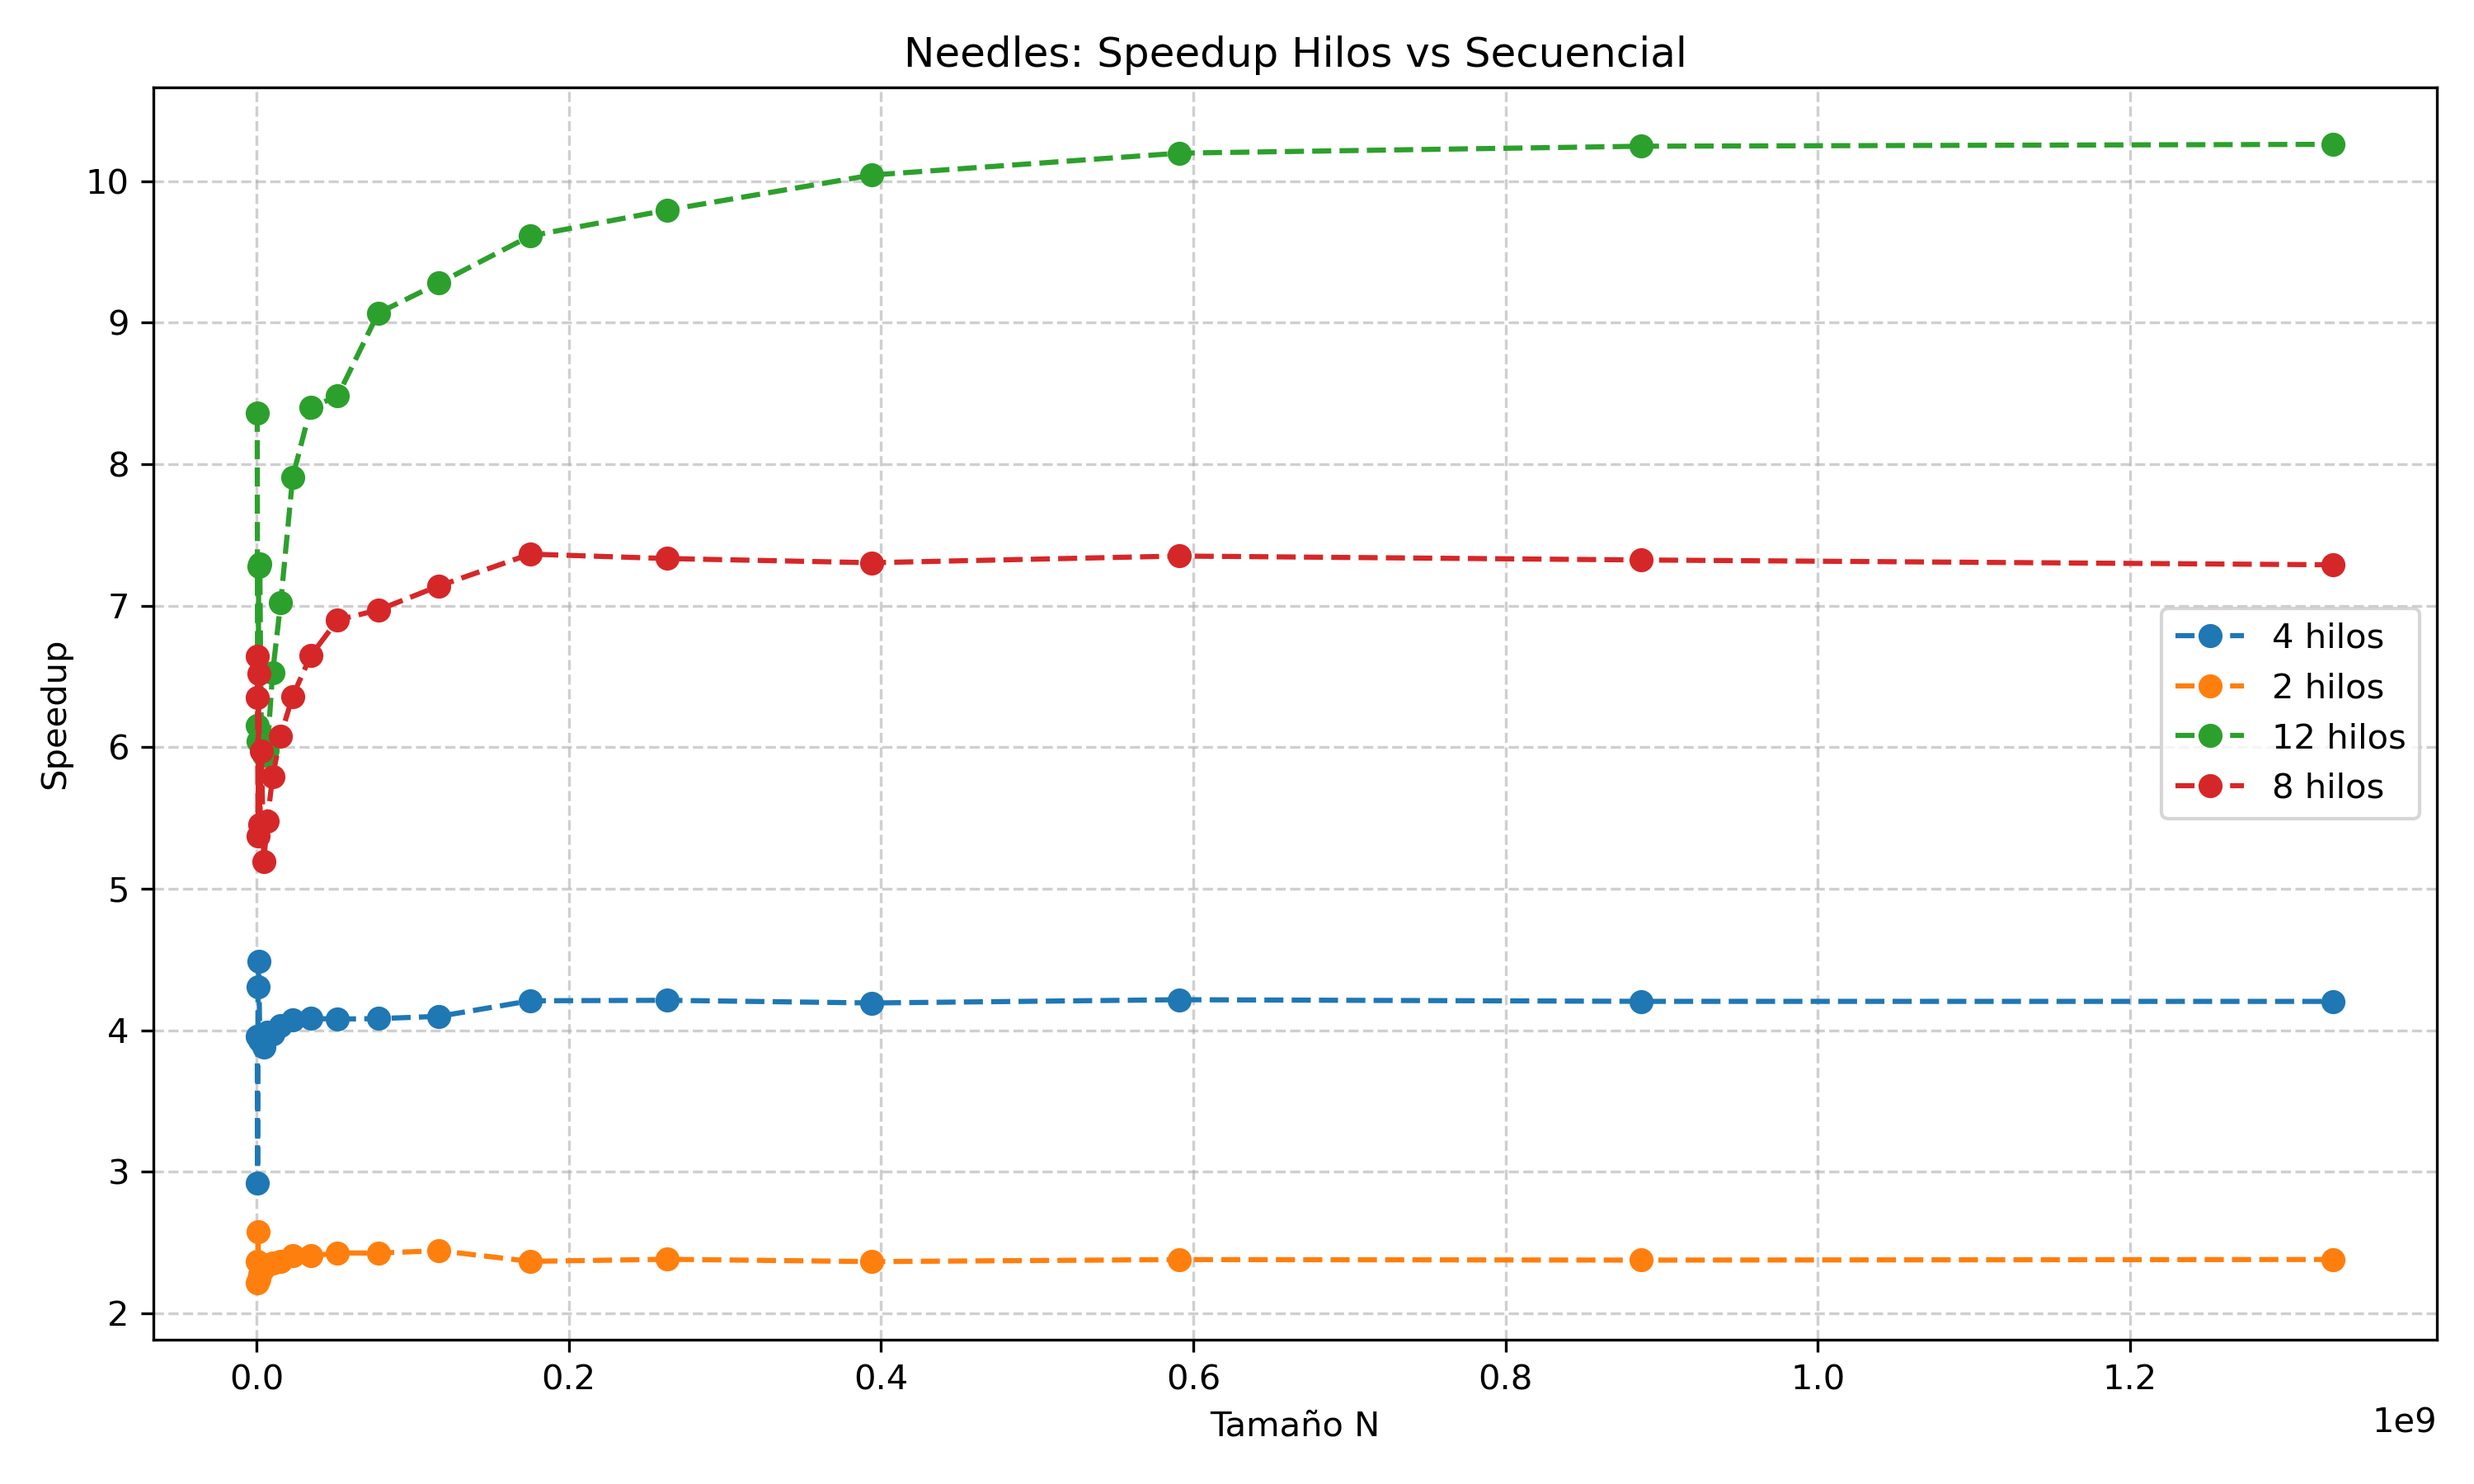
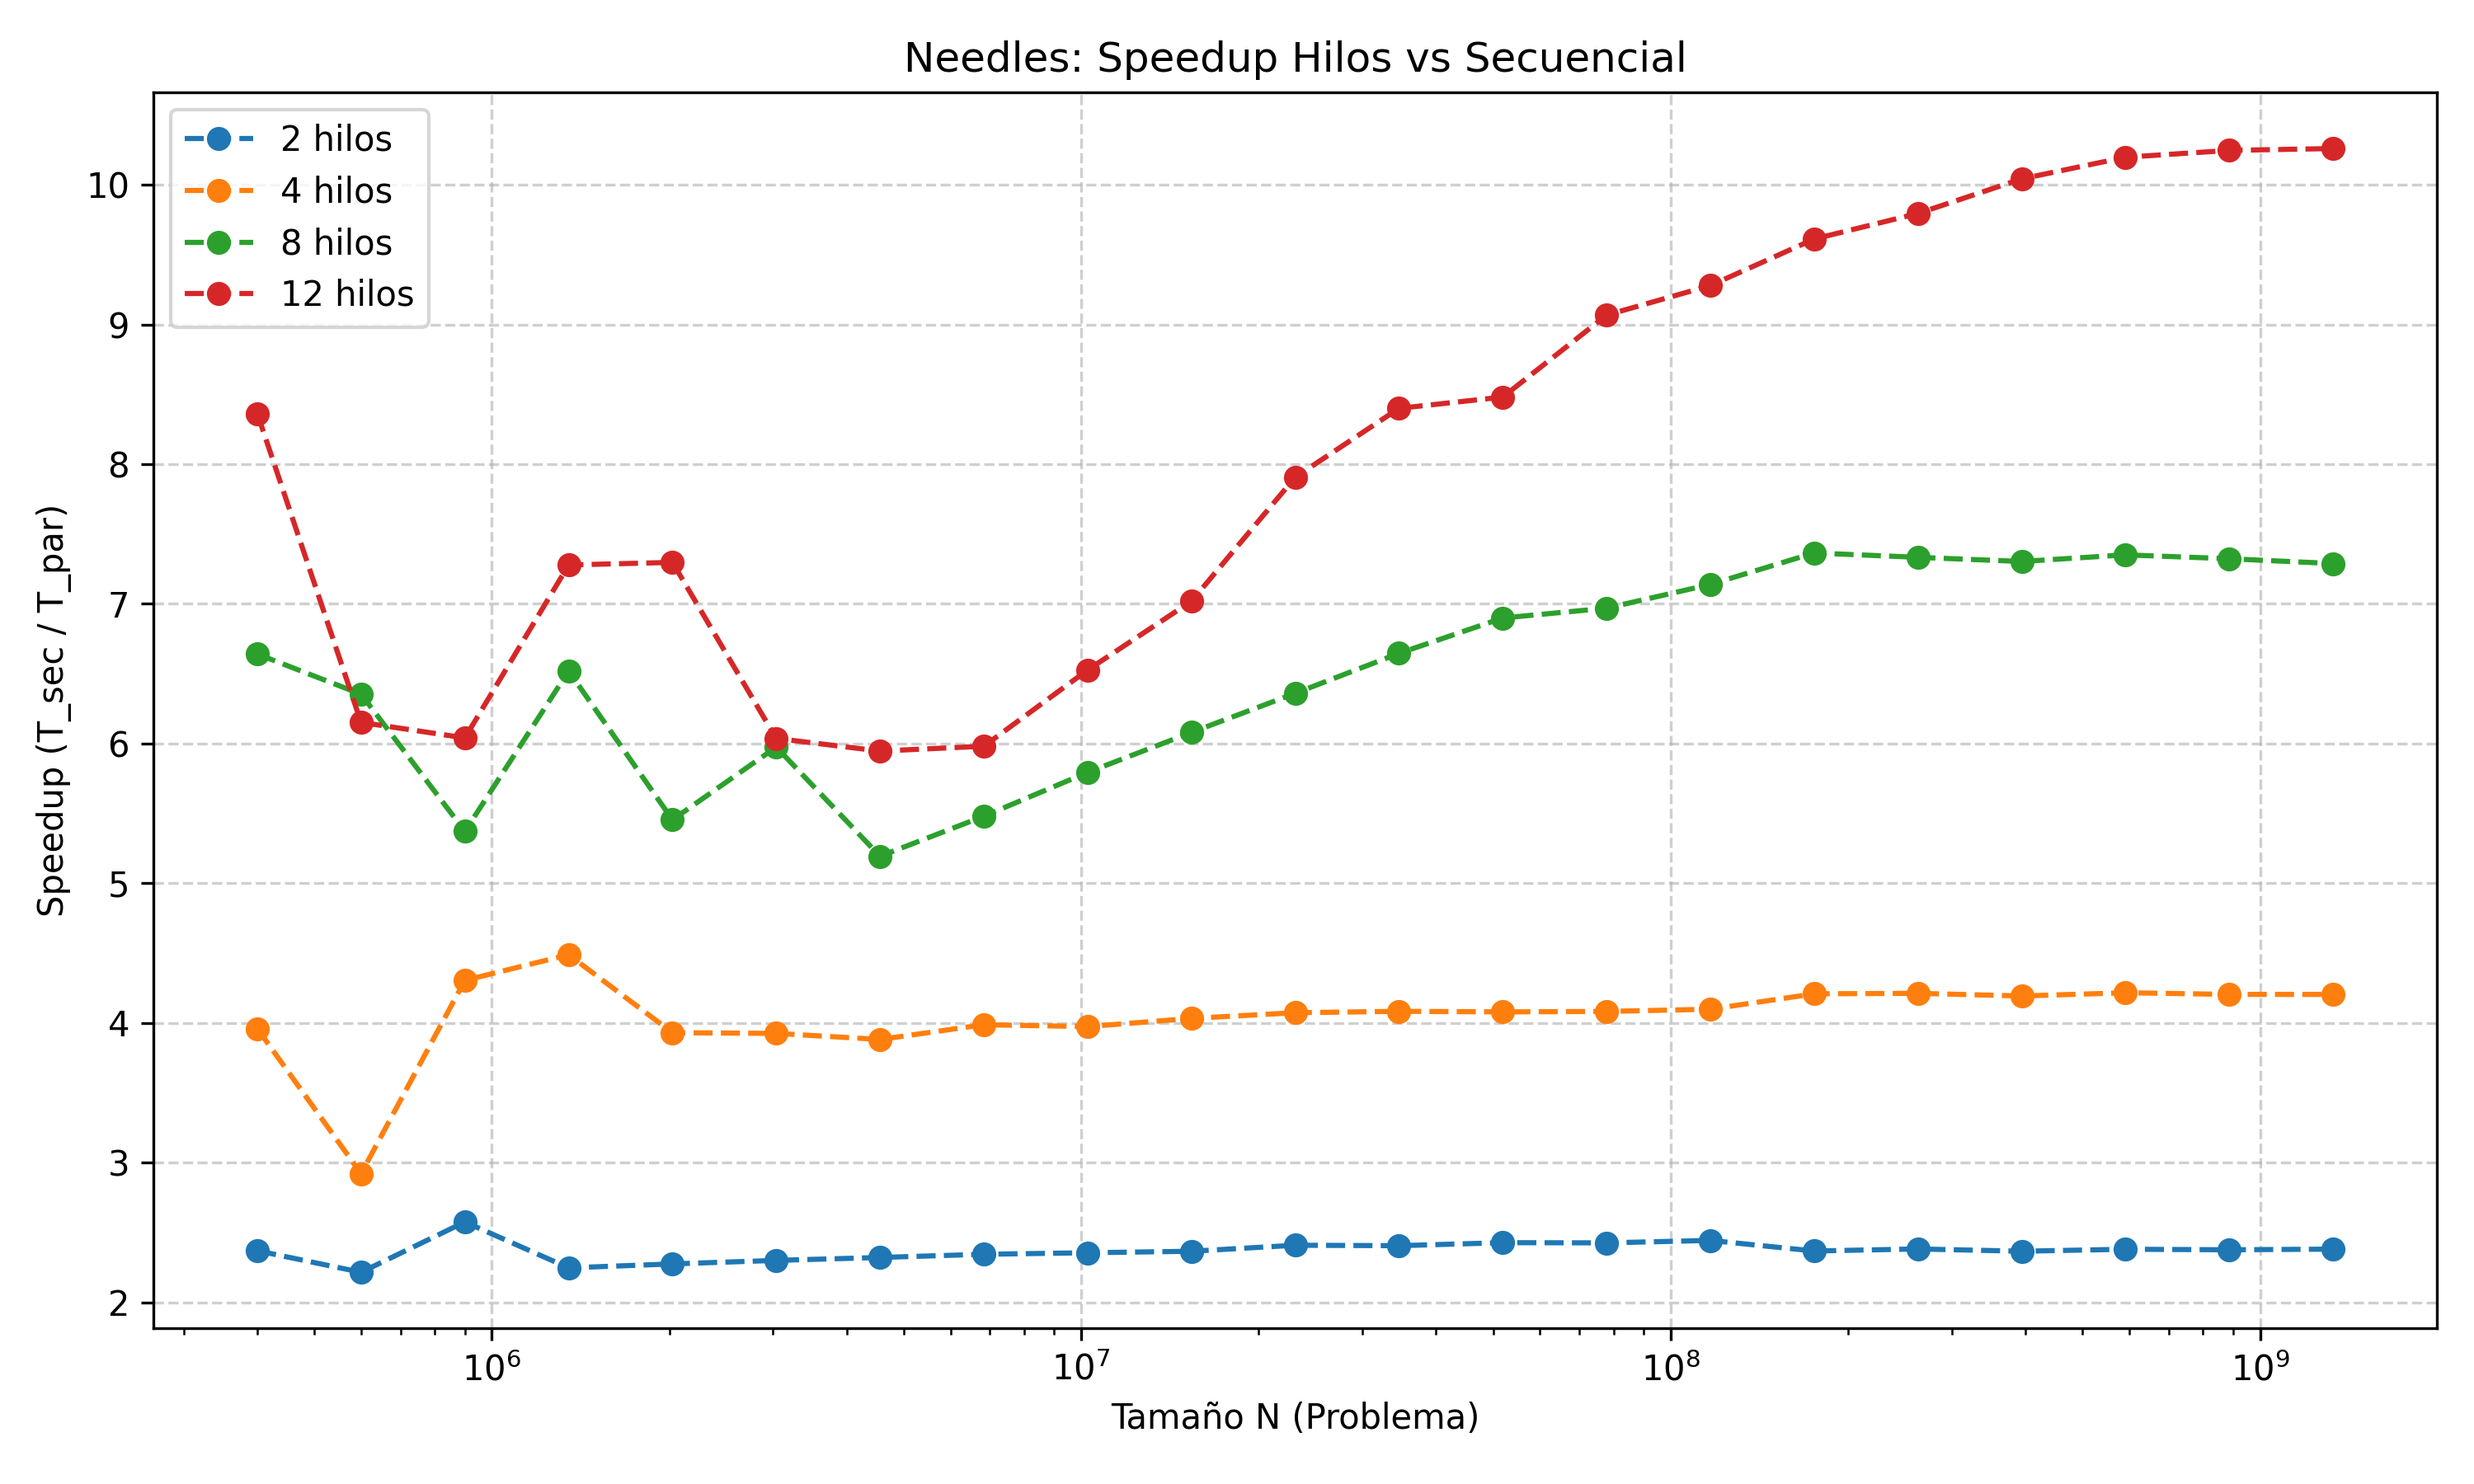
script(speedup): Graficas del speedup generadas

diff --git a/reto2/scripts/speedup.py b/reto2/scripts/speedup.py
@@ -7,50 +7,106 @@ OUTPUT_DIR = os.path.join(BASE_DIR, "graficas_speedup")
 os.makedirs(OUTPUT_DIR, exist_ok=True)
 
 def cargar_tablas(path, modo):
-    """Carga tablas desde una carpeta dada (hilos, procesos, secuencial)."""
+    """Carga tablas desde una carpeta dada (hilos, procesos, secuencial, openmp)."""
     data = {}
     if not os.path.isdir(path):
+        print(f"Info: No se encontró la carpeta {path}")
         return data
 
+    # OpenMP tiene una estructura de carpetas diferente (ej: path/8_threads/tabla.csv)
+    if modo == "openmp":
+        for sub_dir_name in os.listdir(path):
+            sub_dir_path = os.path.join(path, sub_dir_name)
+            
+            if not os.path.isdir(sub_dir_path):
+                continue
+            
+            workers = None
+            try:
+                workers = str(int(sub_dir_name.split('_')[0]))
+            except (ValueError, IndexError):
+                continue 
+
+            csv_file_name = None
+            for f in os.listdir(sub_dir_path):
+                if f.endswith(".csv"):
+                    csv_file_name = f
+                    break 
+            
+            if csv_file_name is None:
+                continue 
+
+            file_path = os.path.join(sub_dir_path, csv_file_name)
+            try:
+                df = pd.read_csv(file_path, index_col=0)  # iteraciones como índice
+                for n in df.columns:
+                    prom = df[n].mean(skipna=True)
+                    data.setdefault(workers, {})[int(n)] = prom
+            except Exception as e:
+                print(f"Error procesando {file_path}: {e}")
+        
+        return data 
+    
+    # LÓGICA ANTIGUA (Hilos, Procesos, Secuencial)
     for file in os.listdir(path):
         if not file.endswith(".csv"):
             continue
+        
         file_path = os.path.join(path, file)
-        df = pd.read_csv(file_path, index_col=0)  # iteraciones como índice
+        df = pd.read_csv(file_path, index_col=0)  
+        
+        workers = None
+        if modo == "hilos":
+            workers = file.split("_")[-1].replace("hilos.csv", "")
+        elif modo == "procesos":
+            workers = file.split("_")[-1].replace("procesos.csv", "")
+        
         for n in df.columns:
             prom = df[n].mean(skipna=True)
-            workers = None
-            if modo == "hilos":
-                workers = file.split("_")[-1].replace("hilos.csv", "")
-            elif modo == "procesos":
-                workers = file.split("_")[-1].replace("procesos.csv", "")
             data.setdefault(workers if workers else "seq", {})[int(n)] = prom
+    
     return data
 
 def graficar_speedup(metodo, data_seq, data_otro, modo_otro):
-    if "seq" not in data_seq:
-        print(f"⚠ No hay datos secuenciales para {metodo}")
+    if "seq" not in data_seq or not data_seq["seq"]:
+        print(f"⚠ No hay datos secuenciales válidos para {metodo}")
         return
 
     plt.figure(figsize=(10,6))
 
     T_seq = data_seq["seq"]
 
-    for workers, valores in data_otro.items():
+    try:
+        workers_ordenados = sorted(data_otro.keys(), key=int)
+    except ValueError:
+        workers_ordenados = sorted(data_otro.keys()) 
+
+    for workers in workers_ordenados:
+        if workers == 'seq': continue 
+        
+        valores = data_otro[workers]
         Ns = sorted(valores.keys())
         speedups = []
-        for n in Ns:
-            if n in T_seq:
-                speedups.append(T_seq[n] / valores[n])
-            else:
-                speedups.append(None)
-        plt.plot(Ns, speedups, marker="o", linestyle="--", label=f"{workers} {modo_otro}")
+        Ns_validos = [] 
 
-    plt.xlabel("Tamaño N")
-    plt.ylabel("Speedup")
+        for n in Ns:
+            if n in T_seq and T_seq[n] > 0 and n in valores and valores[n] > 0:
+                speedups.append(T_seq[n] / valores[n])
+                Ns_validos.append(n)
+            
+        label_modo = modo_otro
+        if modo_otro == "openmp":
+            label_modo = "threads (OpenMP)"
+        
+        if Ns_validos: 
+            plt.plot(Ns_validos, speedups, marker="o", linestyle="--", label=f"{workers} {label_modo}")
+
+    plt.xlabel("Tamaño N (Problema)")
+    plt.ylabel("Speedup (T_sec / T_par)")
     plt.title(f"{metodo}: Speedup {modo_otro.capitalize()} vs Secuencial")
     plt.legend()
     plt.grid(True, linestyle="--", alpha=0.6)
+    plt.xscale('log') 
     plt.tight_layout()
 
     out_file = os.path.join(OUTPUT_DIR, f"{metodo.lower()}_speedup_{modo_otro}.png")
@@ -60,17 +116,41 @@ def graficar_speedup(metodo, data_seq, data_otro, modo_otro):
 
 # ================== MAIN ==================
 for metodo in ["Dartboard", "Needles"]:
+    # 'base_metodo' se usa para secuencial, hilos y procesos
     base_metodo = os.path.join(BASE_DIR, metodo)
+    print(f"\n--- Procesando {metodo} ---")
 
     # Cargar secuencial
-    data_seq = cargar_tablas(os.path.join(base_metodo, "secuencial"), "secuencial")
+    path_seq = os.path.join(base_metodo, "secuencial")
+    data_seq = cargar_tablas(path_seq, "secuencial")
+    if not data_seq:
+        print(f"⚠ No se encontraron datos secuenciales para {metodo}, saltando...")
+        continue
 
     # Cargar hilos
-    data_hilos = cargar_tablas(os.path.join(base_metodo, "hilos"), "hilos")
+    path_hilos = os.path.join(base_metodo, "hilos")
+    data_hilos = cargar_tablas(path_hilos, "hilos")
     if data_hilos:
         graficar_speedup(metodo, data_seq, data_hilos, "hilos")
+    else:
+        print(f"ℹ No hay datos de hilos para {metodo}")
 
     # Cargar procesos
-    data_procesos = cargar_tablas(os.path.join(base_metodo, "procesos"), "procesos")
+    path_procesos = os.path.join(base_metodo, "procesos")
+    data_procesos = cargar_tablas(path_procesos, "procesos")
     if data_procesos:
         graficar_speedup(metodo, data_seq, data_procesos, "procesos")
+    else:
+        print(f"ℹ No hay datos de procesos para {metodo}")
+
+    # --- INICIO DE LA MODIFICACIÓN ---
+    # Cargar OpenMP (con la ruta corregida)
+    # La ruta es: results/tablas/openmp/[metodo]/
+    path_openmp = os.path.join(BASE_DIR, "openmp", metodo)
+    data_openmp = cargar_tablas(path_openmp, "openmp")
+    # --- FIN DE LA MODIFICACIÓN ---
+    
+    if data_openmp:
+        graficar_speedup(metodo, data_seq, data_openmp, "openmp")
+    else:
+        print(f"ℹ No hay datos de openmp para {metodo}")
